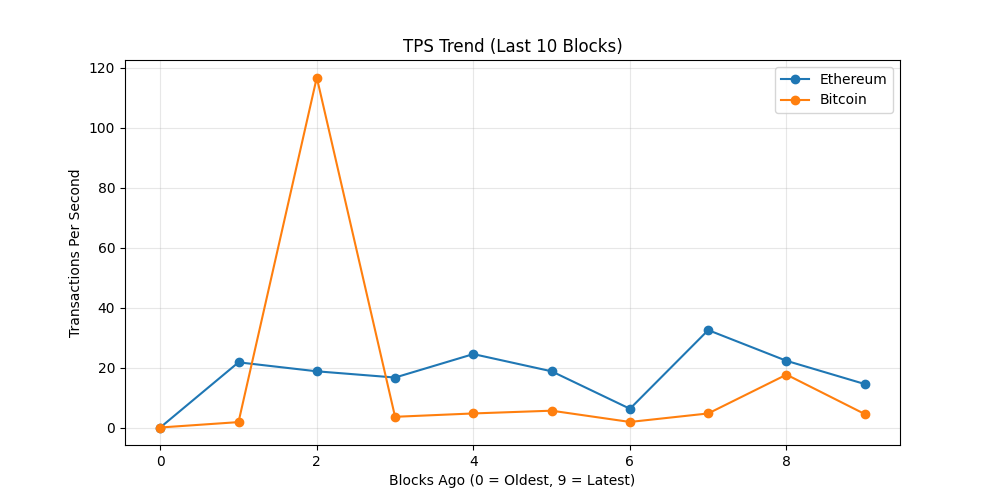
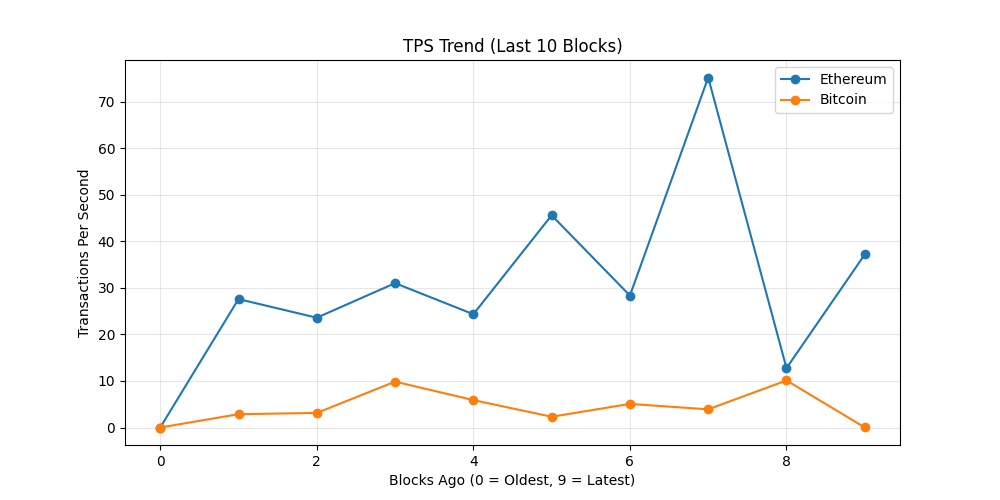
chore: update on-chain dashboard

diff --git a/README.md b/README.md
@@ -19,7 +19,7 @@ The README itself acts as the dashboard and is regenerated automatically on a 6 
 demonstrating a production-style, infrastructure-focused observability workflow rather
 than a traditional UI-driven approach.
 
-_Last updated: 2026-01-09 06:51 UTC_
+_Last updated: 2026-01-09 13:07 UTC_
 
 ## API Usage (GetBlock.io)
 - Calls used: **24**
@@ -27,8 +27,8 @@ _Last updated: 2026-01-09 06:51 UTC_
 ## Network Metrics
 | Chain | Block Height | TX Count | TPS (10 blk avg) | Block Util | Avg Fee |
 |------|-------------|----------|------------------|------------|---------|
-| Ethereum | 24195444 | 174 | 14.5 | 25.37% | 0.0 Gwei |
-| Bitcoin | 931513 | 2406 | 4.49 | 99.77% | N/A |
+| Ethereum | 24197315 | 446 | 37.17 | 65.29% | 0.1 Gwei |
+| Bitcoin | 931548 | 6 | 0.01 | 99.84% | N/A |
 
 ## Visuals
 ### Transactions Trend
